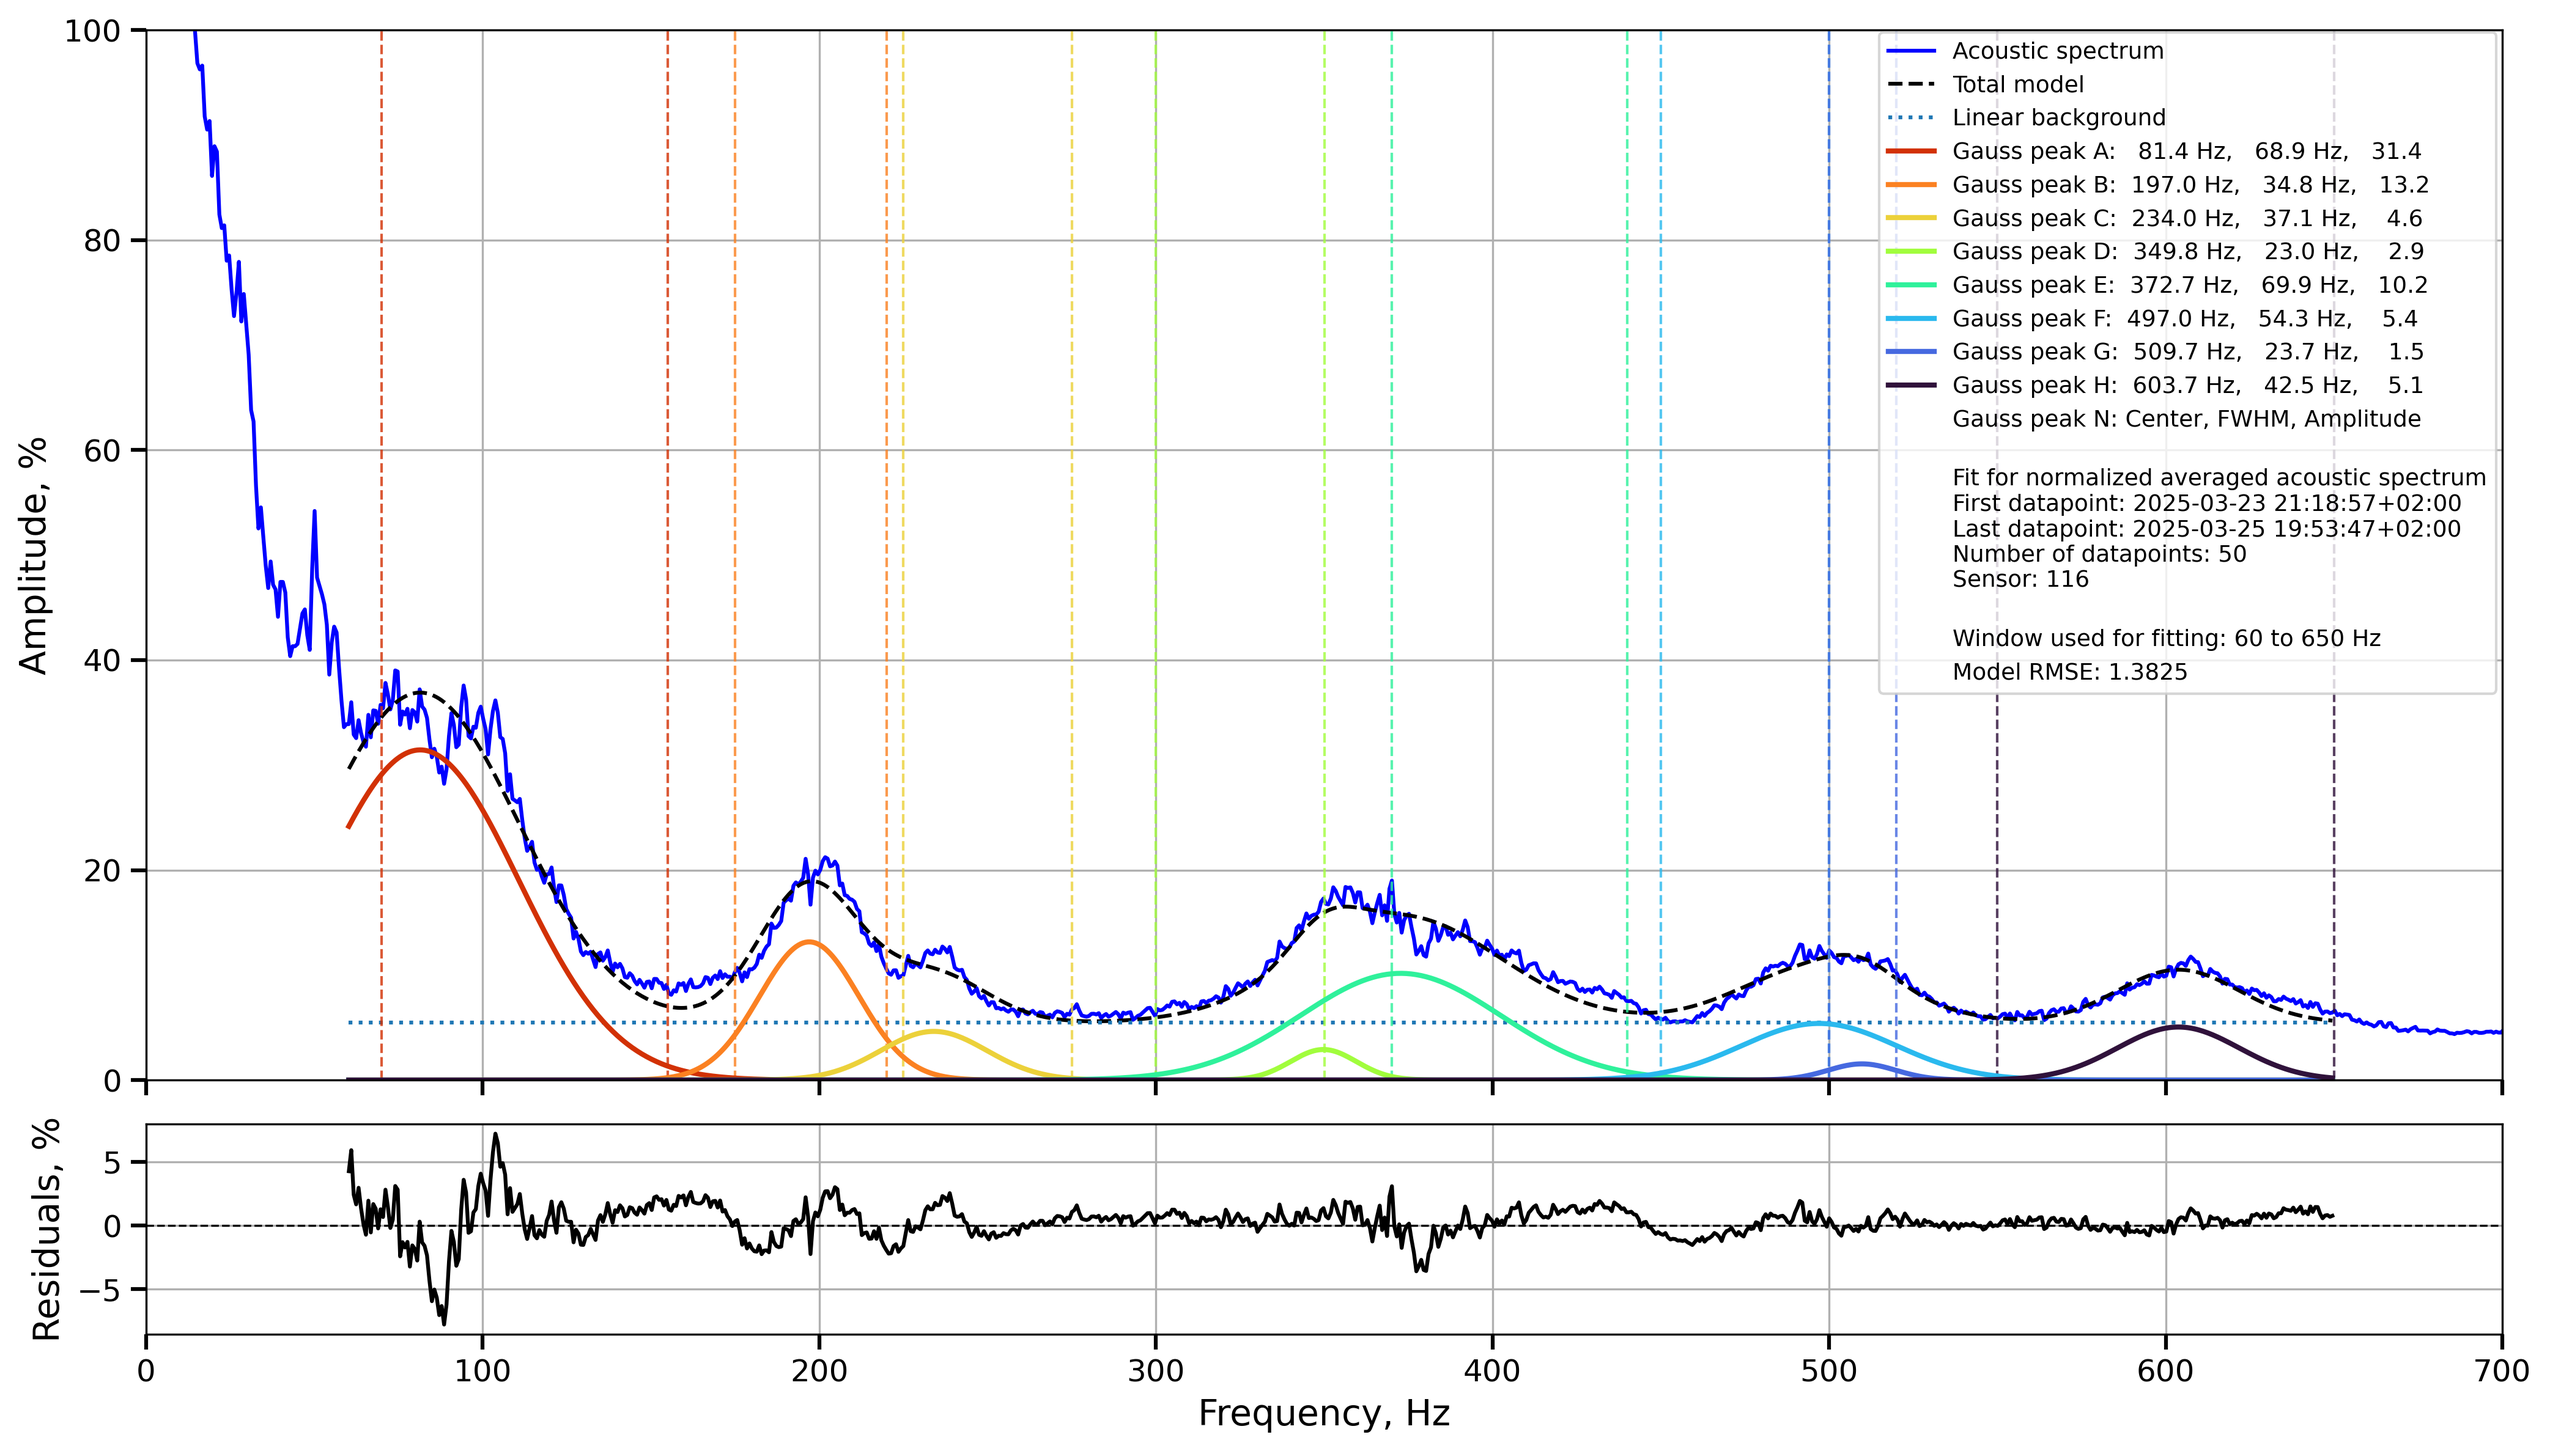
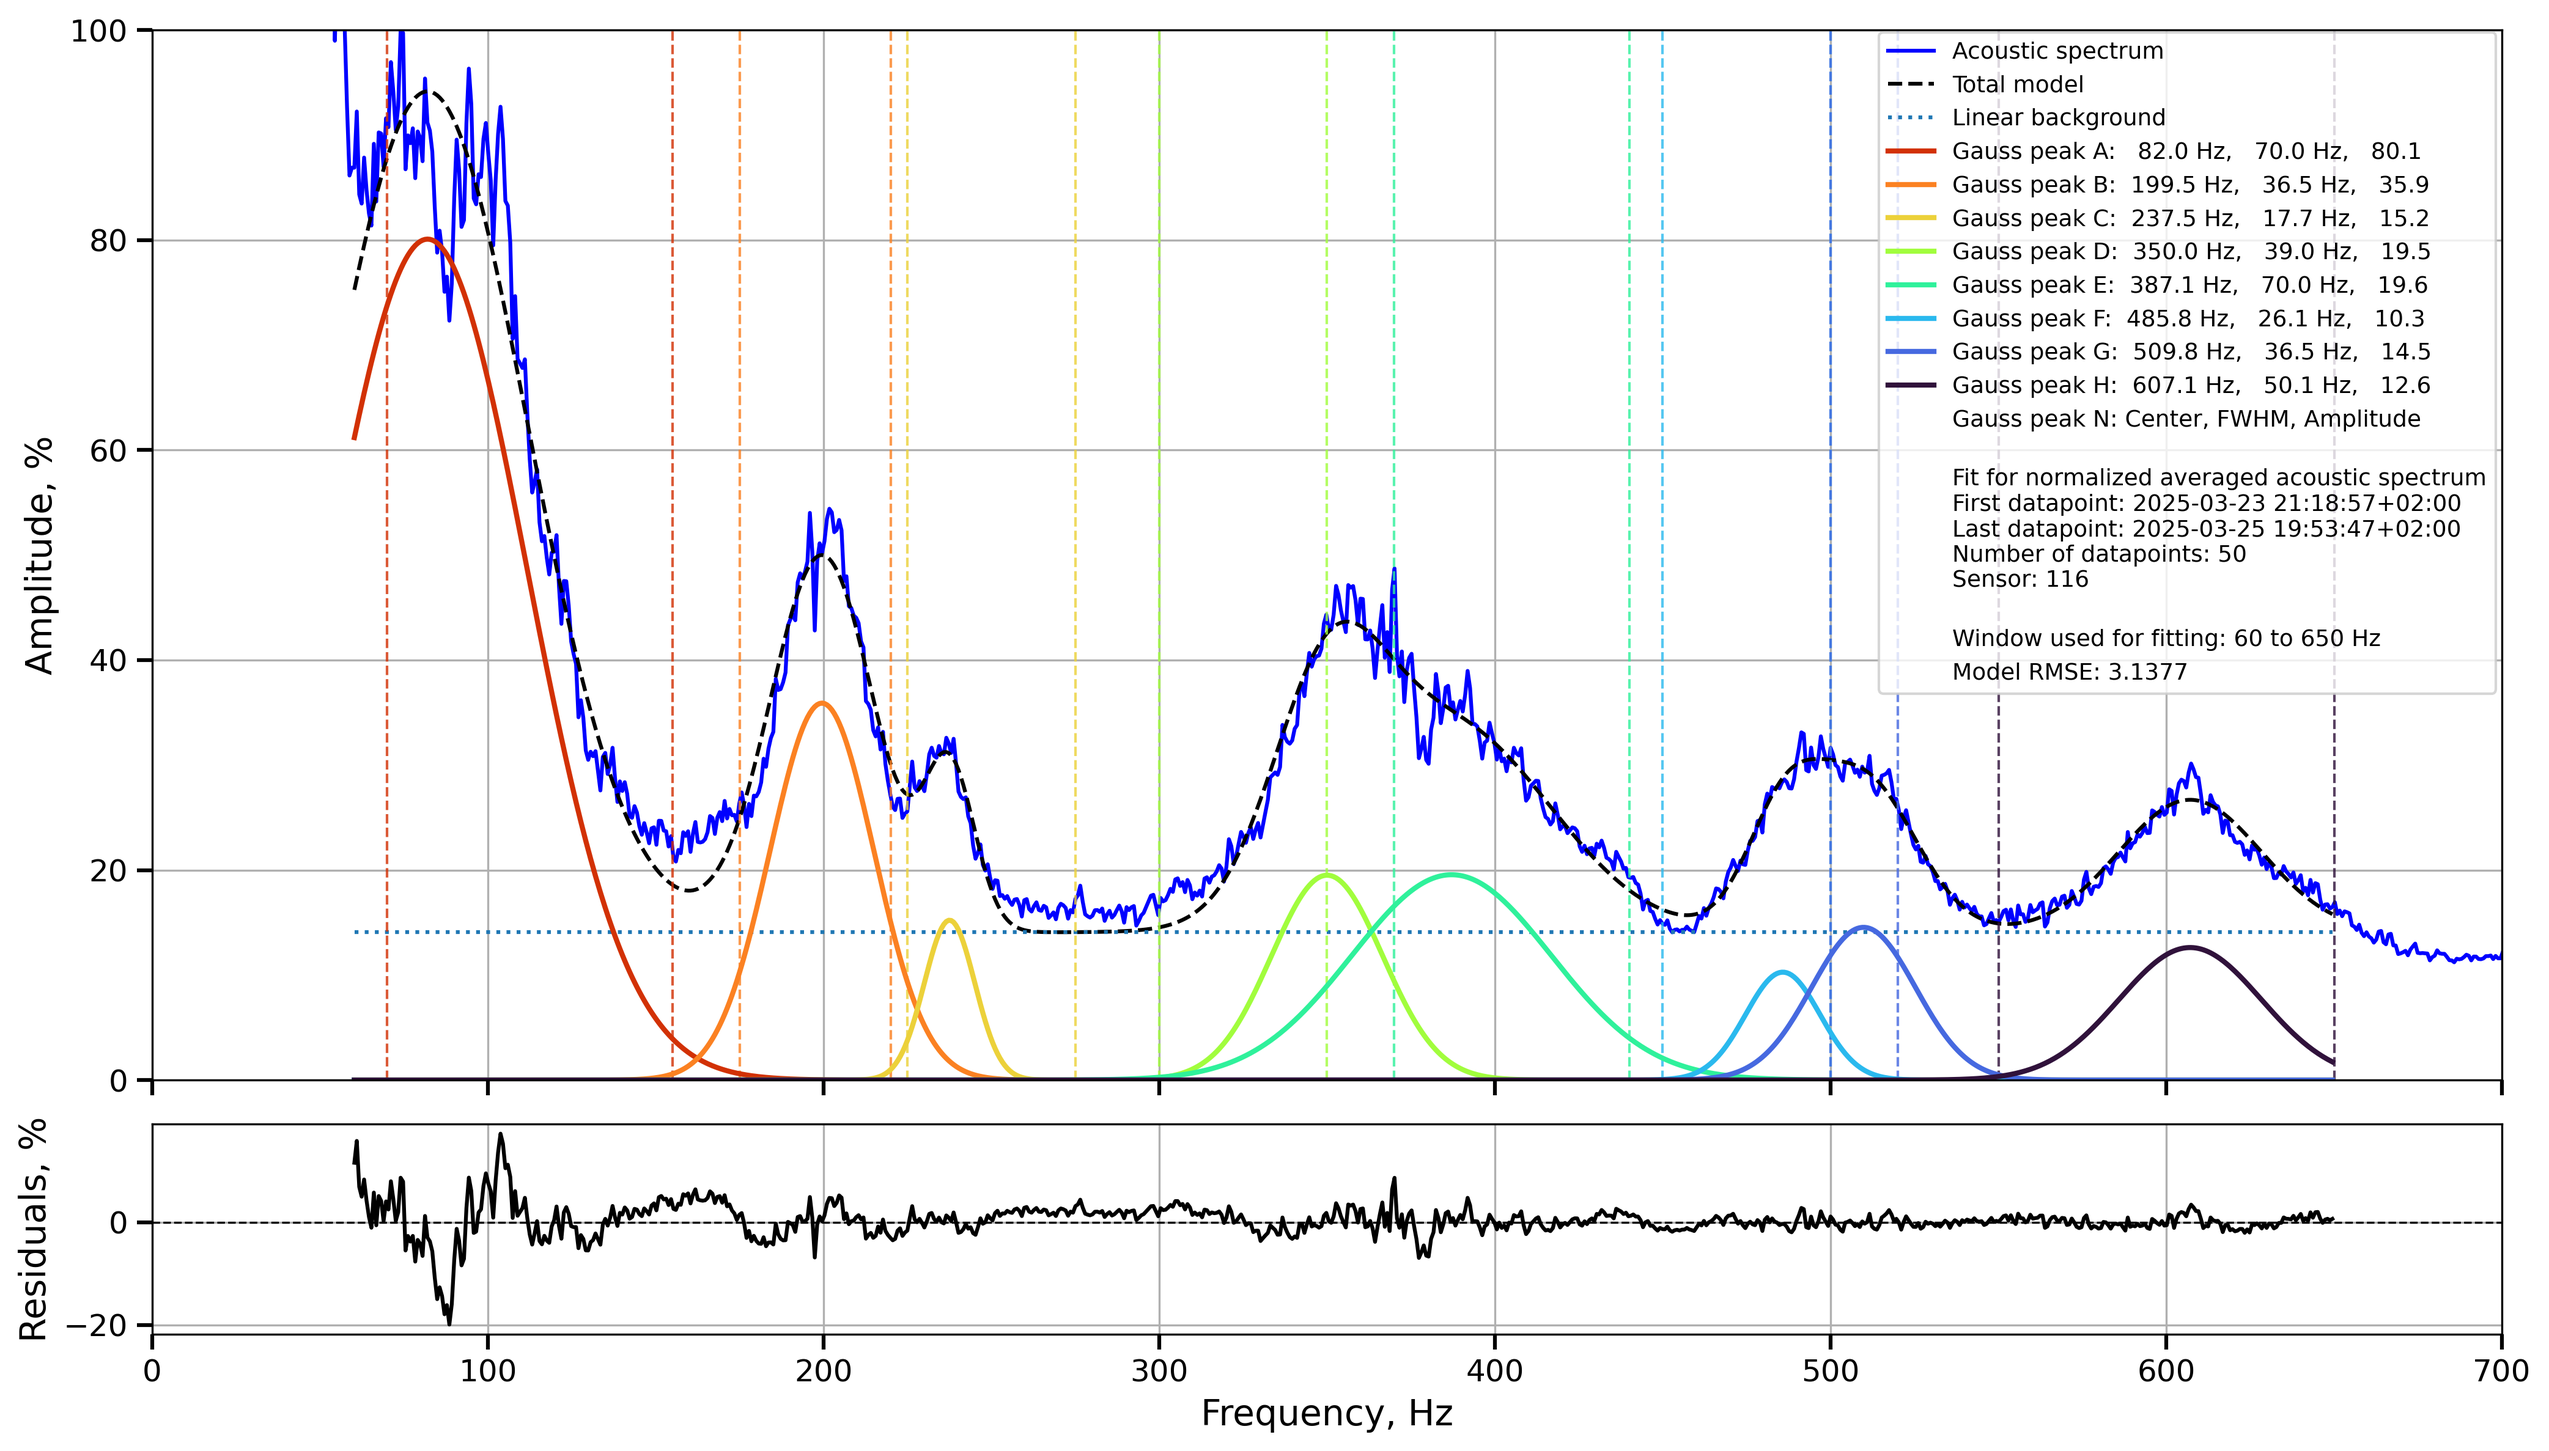
Normalization with mask

diff --git a/plotly_plots.py b/plotly_plots.py
@@ -38,11 +38,15 @@ LEGEND_CONFIG = dict(
     title_text='Sensor', 
 )
 
-def normalize_spectrum(arr):
-    arr = np.asarray(arr)
-    max_val = np.max(arr)
+def normalize_spectrum(spectrum, frequencies, start_freq=0):
+    spectrum = np.asarray(spectrum)
+    if start_freq > 0:
+        mask = np.array(frequencies) >= start_freq
+        max_val = np.max(spectrum[mask])
+    else:
+        max_val = np.max(spectrum)
     assert max_val != 0
-    return 100 * arr / max_val
+    return 100 * spectrum / max_val
 
 def calculate_total_intensity(spectrum):
     abs_spectrum = np.abs(spectrum)
@@ -135,19 +139,20 @@ def plot_acoustic_spectra(ds, start, end, return_fig=False):
             t.astimezone(HELSINKI_TZ)
             for t in filtered_ds['datetime'].values
         ]
-
-        averaged_spectrum = normalize_spectrum(np.nanmean(raw_spectra, axis=0))
+        
+        averaged_spectrum = np.nanmean(raw_spectra, axis=0)
         spectrum_len = len(averaged_spectrum)
         freq_factor = filtered_ds['frequency_scaling_factor'].values[0]
         freq_start  = filtered_ds['frequency_start_index'].values[0]
         frequencies = [(bin+freq_start)*freq_factor for bin in range(spectrum_len)]
+        normalized_spectrum = normalize_spectrum(averaged_spectrum, frequencies, NORMALIZATION_LIMIT)
         
-        hover_texts = [f'{averaged_spectrum[j]:.3f}%, {freq:.3f} Hz (channel {j})' 
+        hover_texts = [f'{normalized_spectrum[j]:.3f}%, {freq:.3f} Hz (channel {j})' 
                       for j, freq in enumerate(frequencies)]
 
         fig.add_trace(go.Scatter(
             x=frequencies,
-            y=averaged_spectrum,
+            y=normalized_spectrum,
             name=str(sensor_id),
             marker_color=colors[i],
             opacity=0.7,

diff --git a/gauss_plot.py b/gauss_plot.py
@@ -69,13 +69,14 @@ def plot_gaussians(ds, start, end, output_path, name_overide=None):
             continue
 
         raw_spectra = np.vstack(filtered_ds['spectrum'].values)
-        averaged_spectrum = normalize_spectrum(np.nanmean(raw_spectra, axis=0))
-        spectrum_len = len(averaged_spectrum)
+        averaged_spectrum = np.nanmean(raw_spectra, axis=0)
         freq_factor = filtered_ds['frequency_scaling_factor'].values[0]
         freq_start  = filtered_ds['frequency_start_index'].values[0]
+        spectrum_len = len(averaged_spectrum)
         frequencies = np.array([(bin+freq_start)*freq_factor for bin in range(spectrum_len)])
+        normalized_spectrum = normalize_spectrum(averaged_spectrum, frequencies, NORMALIZATION_LIMIT)
 
-        (x_masked, result, residuals, rmse) = fit_model(frequencies, averaged_spectrum)
+        (x_masked, result, residuals, rmse) = fit_model(frequencies, normalized_spectrum)
         components = result.eval_components(x=x_masked)
         p = result.params
 
@@ -101,7 +102,7 @@ def plot_gaussians(ds, start, end, output_path, name_overide=None):
         ax2.set_ylabel('Residuals, %', fontsize=14)
         ax2.tick_params(axis='both', labelsize=12, length=6, width=1.5)
         
-        ax1.plot(frequencies, averaged_spectrum, 'b-', label='Acoustic spectrum')
+        ax1.plot(frequencies, normalized_spectrum, 'b-', label='Acoustic spectrum')
         ax1.plot(x_masked, result.best_fit, 'k--', label='Total model')
         ax1.plot(x_masked, components['bg_'], linestyle='dotted', label='Linear background')
 

diff --git a/evolution_plot.py b/evolution_plot.py
@@ -63,7 +63,7 @@ def plot_evolution(ds, start, end, output_path, name_overide=None):
 
         rmse_values = []
         for j, spectrum in enumerate(spectra):
-            normalized_spectrum = normalize_spectrum(spectrum)
+            normalized_spectrum = normalize_spectrum(spectrum, frequencies, NORMALIZATION_LIMIT)
             (_, result, _, rmse) = fit_model(frequencies, normalized_spectrum)
             rmse_values.append(rmse) 
             measurement_datetime = measurement_datetimes[j]

diff --git a/constants.py b/constants.py
@@ -27,6 +27,7 @@ HELSINKI_2DAYS_AGO = HELSINKI_NOW - pd.Timedelta(hours=48)
 COLORMAP_FOR_GAUSSIANS = mpl.colormaps['turbo_r']
 FITTING_WINDOW_MIN = 60 # Hz    
 FITTING_WINDOW_MAX = 650 # Hz
+NORMALIZATION_LIMIT = 70 # Hz
 FITTING_MODEL = [
         {
             'type': 'background',

diff --git a/main.py b/main.py
@@ -20,7 +20,7 @@ if __name__ == "__main__":
         ]
     )
 
-    sensors = [20, 21, 46, 116]
+    sensors = [116, 46, 21, 20]
     start = HELSINKI_2DAYS_AGO
     end = HELSINKI_NOW 
 
